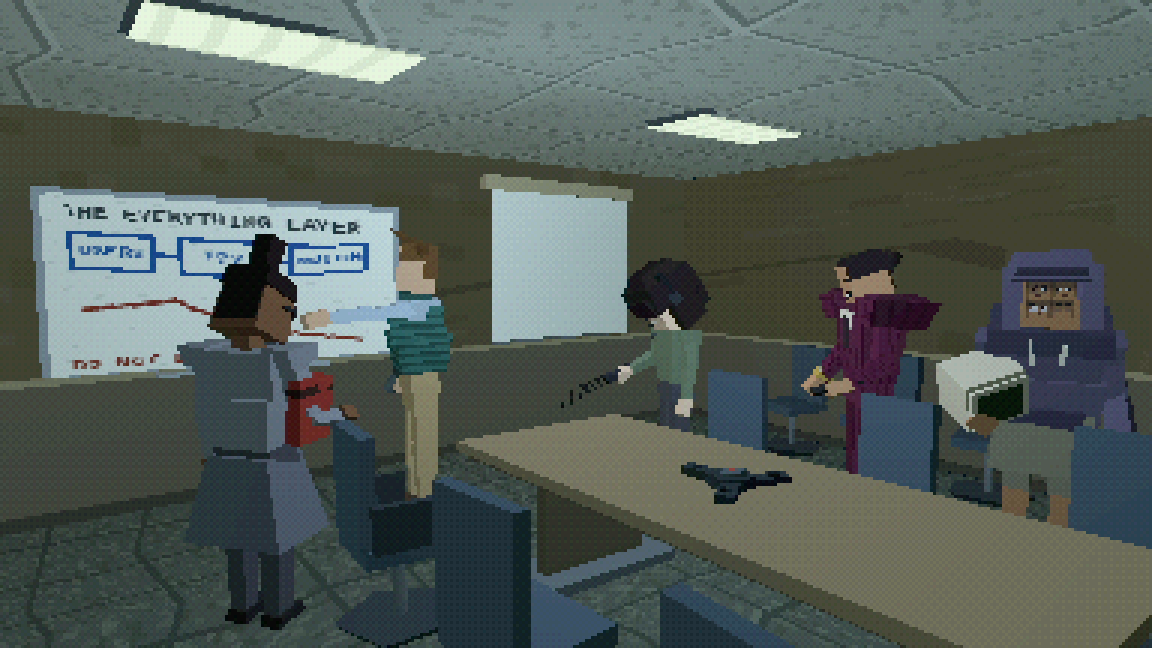
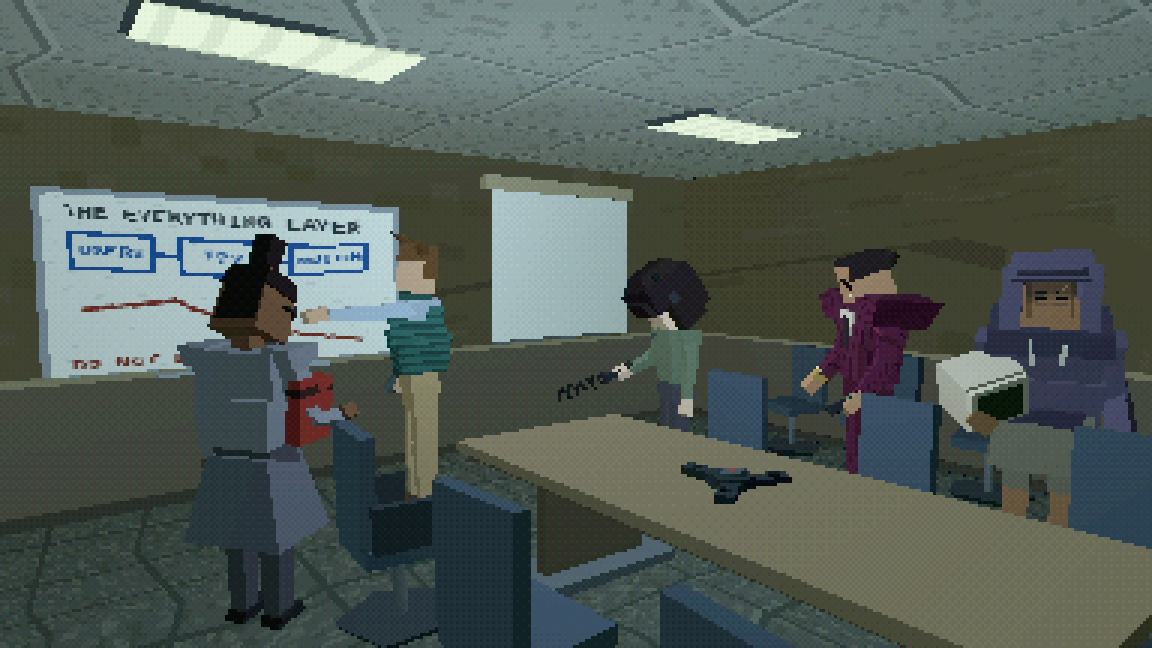
Apply the texture UV transform in the PS1 shader (#4)
Every character was wearing all four of their face frames at once, in a
2x2 grid where their face should be.

Faces are a 64x64 atlas of four 32x32 frames and the rig picks one by
writing texture.offset with repeat at 0.5. three.js only folds that into
texture.matrix and hands it to a shader as uvTransform for its own
materials; ps1.js is a hand-written ShaderMaterial sampling the raw uv
attribute, so the transform was dropped and the whole atlas was
stretched across the head.

The vertex shader now applies a uMapTransform mat3 before the affine
split, refreshed from texture.matrix per draw because the rig changes
expression while the episode runs.

This was hiding a second thing: setFace() and the anim-driven expression
system have never done anything visible. Characters now change
expression. Verified frame by frame, where all four were previously
pixel-identical.
</commit_message>
</invoke>

diff --git a/js/core/ps1.js b/js/core/ps1.js
@@ -85,6 +85,14 @@ uniform float uJitter;
 uniform float uJitterScale;
 uniform float uUnlit;
 
+#ifdef USE_MAP
+// three.js folds a texture's offset/repeat/rotation/center into texture.matrix
+// and hands it to its own materials as uvTransform. A hand-written shader gets
+// none of that for free: sampling the raw uv attribute ignores offset and
+// repeat entirely, which maps a whole atlas onto every face that uses one.
+uniform mat3 uMapTransform;
+#endif
+
 uniform vec3  uLightPos[${MAX_LIGHTS}];
 uniform vec3  uLightColor[${MAX_LIGHTS}];
 uniform float uLightRange[${MAX_LIGHTS}];
@@ -119,9 +127,14 @@ void main() {
   // ---- 2. affine texture mapping ----------------------------------------
   // Perspective-correct interpolation of (uv * w) divided by that of (w)
   // collapses to plain screen-linear interpolation of uv. That is the swim.
-  vUvA = uv * clip.w;
+#ifdef USE_MAP
+  vec2 tuv = ( uMapTransform * vec3( uv, 1.0 ) ).xy;
+#else
+  vec2 tuv = uv;
+#endif
+  vUvA = tuv * clip.w;
   vUvW = clip.w;
-  vUvP = uv;
+  vUvP = tuv;
 
   // ---- 3. gouraud lighting (per-vertex, one varying) --------------------
   vec3 vn = normalize( normalMatrix * normal );
@@ -285,7 +298,10 @@ export function ps1Material(o = {}) {
     uFogColor: SHARED.uFogColor,
     uFogDensity: SHARED.uFogDensity,
   };
-  if (map) uniforms.uMap = { value: map };
+  if (map) {
+    uniforms.uMap = { value: map };
+    uniforms.uMapTransform = { value: new THREE.Matrix3() };
+  }
 
   const mat = new THREE.ShaderMaterial({
     vertexShader: VERT,
@@ -302,6 +318,16 @@ export function ps1Material(o = {}) {
     lights: false,
     toneMapped: false,
   });
+
+  if (map) {
+    // The transform has to be refreshed per draw, not once at build time: the
+    // rig switches a face frame by writing texture.offset, and three.js only
+    // recomputes texture.matrix automatically for its own materials.
+    mat.onBeforeRender = () => {
+      if (map.matrixAutoUpdate) map.updateMatrix();
+      uniforms.uMapTransform.value.copy(map.matrix);
+    };
+  }
 
   mat.name = 'ps1';
   mat.userData.ps1 = true;
